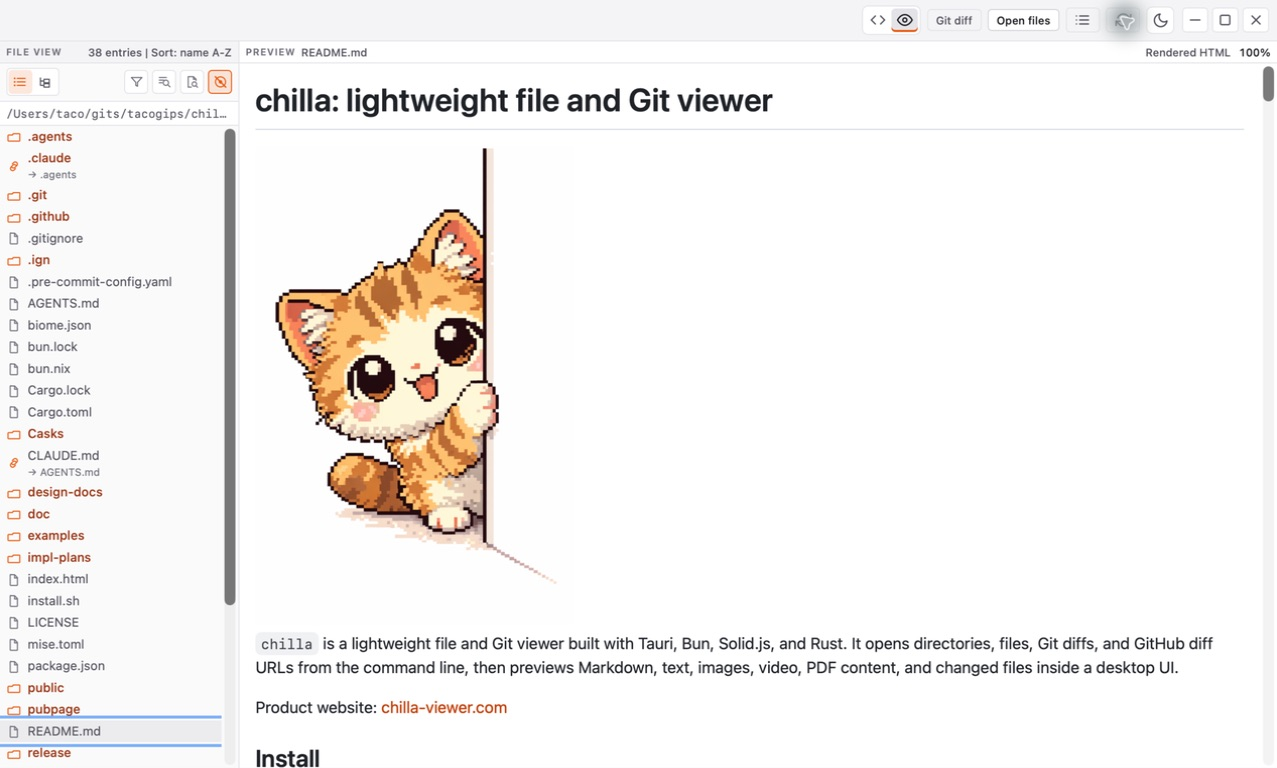
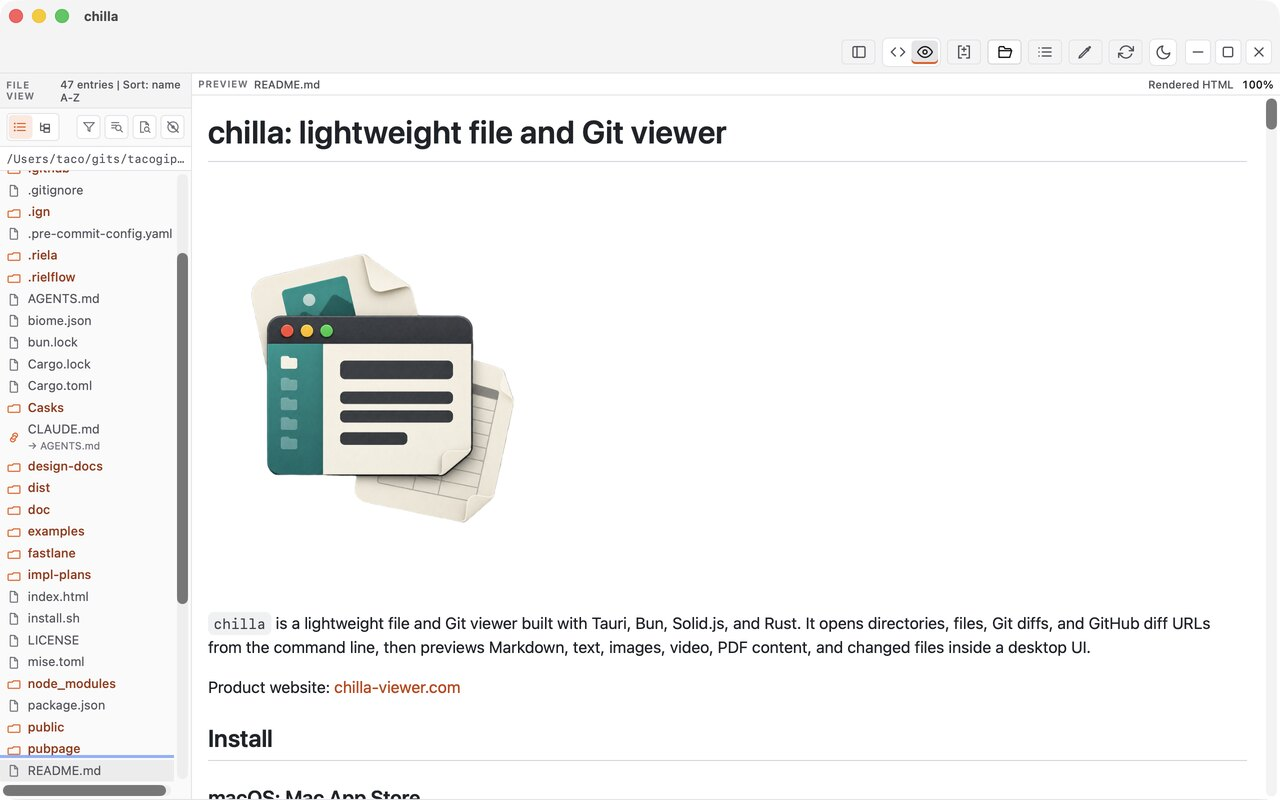
docs(pubpage): add pair view section and recapture README screenshot with new branding
Adds an English/Japanese pair view (before/after) section with a fresh capture, replaces the browse screenshot that still showed the cat illustration, extends build validation to the new assets, and records capture provenance.

diff --git a/pubpage/ja/index.html b/pubpage/ja/index.html
@@ -18,6 +18,7 @@
 <a href="#features">chillaとは</a>
 <a href="#keyboard">キーボード</a>
 <a href="#git-diff">Git diff</a>
+<a href="#pair-view">並べて比較</a>
 <a href="#install">インストール</a>
 <a href="https://github.com/tacogips/chilla">GitHub ↗</a><a class="language-link" href="/" lang="en">English</a></nav>
 </header>
@@ -55,7 +56,7 @@ brew upgrade --cask chilla</code></pre></details>
 </div></section>
 <div class="section product-preview">
 <figure class="app-shot hero-shot" id="proof"><div class="shot-heading"><span>いつものファイルを、いつものリズムで。</span><span class="shot-tag">chilla / README.md</span></div>
-<picture><source type="image/webp" srcset="/screenshots/browse-fresh.webp" /><img src="/screenshots/browse-fresh.jpg" width="1277" height="768" alt="ファイルブラウザとネコのイラスト付きREADMEを並べたchillaの画面" loading="lazy" /></picture><figcaption>撮り直した実際のアプリ画面 · リポジトリを移動しながらREADMEをプレビュー。</figcaption></figure>
+<picture><source type="image/webp" srcset="/screenshots/browse-fresh.webp" /><img src="/screenshots/browse-fresh.jpg" width="1280" height="800" alt="ファイルブラウザとドキュメントビューアのイラスト付きREADMEを並べたchillaの画面" loading="lazy" /></picture><figcaption>撮り直した実際のアプリ画面 · リポジトリを移動しながらREADMEをプレビュー。</figcaption></figure>
 </div>
 <section class="section features" id="features" aria-labelledby="features-title">
 <div class="section-intro"><div><p class="eyebrow">手間を減らして、すいすいと。</p><h2 id="features-title">ちょっと見たい。<br />だから、軽やかに。</h2></div><p>ターミナルのファイルブラウザのような操作感に、見たいものが見やすいデスクトップの画面を。chillaはYaziに着想を得たアプリで、Yaziのフォークではありません。</p></div>
@@ -78,6 +79,10 @@ brew upgrade --cask chilla</code></pre></details>
 <div class="section-intro"><div><p class="eyebrow">Git diffも、おまかせ。</p><h2 id="diff-title">小さな変更も、<br />くっきりと。</h2></div><div><p>ローカルの変更、コミット、範囲指定、GitHubのプルリクエストURLに対応。変更ファイルをたどりながら、何が変わったかを確認できます。ここでも操作はキーボード中心。</p><ul class="mode-pills"><li>左右比較</li><li>スタック表示</li><li>ファイル全体</li></ul></div></div>
 <figure class="app-shot diff-shot"><picture><source type="image/webp" srcset="/screenshots/diff-fresh.webp" /><img src="/screenshots/diff-fresh.jpg" width="1277" height="768" loading="lazy" alt="変更ファイルの一覧と赤と緑の差分を左右に表示したchillaのGit diff画面" /></picture><figcaption>撮り直した実際のアプリ画面 · リポジトリの変更を左右に並べて比較。</figcaption></figure>
 <p class="diff-shortcuts">diffモードでは： <kbd>Tab</kbd> 表示を循環 <kbd>1</kbd> 左右比較 <kbd>2</kbd> スタック <kbd>3</kbd> ファイル全体 <kbd>4</kbd> SVG画像</p></section>
+<section class="section diff-section" id="pair-view" aria-labelledby="pair-title">
+<div class="section-intro"><div><p class="eyebrow">BEFORE / AFTER</p><h2 id="pair-title">2つのファイルを、<br />左右に並べて。</h2></div><div><p>ファイルを2つ渡すと、chillaは左右に並べて開きます。画像のbefore/after確認にぴったりです。各ペインは同じリッチなプレビューを使い、左上の目のアイコンでペインを隠すと、もう一方がウィンドウ全体に広がります。</p><ul class="mode-pills"><li>chilla before.png after.png</li><li>どちらのペインも隠せる</li><li>画像・Markdown・PDFなど</li></ul></div></div>
+<figure class="app-shot diff-shot"><picture><source type="image/webp" srcset="/screenshots/pair-view.webp" /><img src="/screenshots/pair-view.jpg" width="1280" height="800" loading="lazy" alt="左に旧ネコのイラスト、右に新しいドキュメントビューアのイラストを並べたchillaのペアビュー" /></picture><figcaption>撮り直した実際のアプリ画面 · ペアビューでbefore/afterを左右に比較。</figcaption></figure>
+</section>
 </main>
 <footer class="site-footer"><a class="brand" href="/ja/"><img class="brand-icon" src="/favicon.png" data-app-icon alt="" width="44" height="44" /><span>chilla</span></a><p>好奇心いっぱいの、小さなファイル＆Gitビューア。</p><nav aria-label="フッター"><a href="https://apps.apple.com/jp/app/chilla-viewer/id6810136995">Mac App Store</a><a href="/ja/privacy/">プライバシー</a><a href="https://github.com/tacogips/chilla/releases/latest">リリース</a><a href="https://github.com/tacogips/chilla">GitHub</a><a href="/" lang="en">English</a></nav><p class="copyright">© <span data-year>2026</span> chilla</p></footer>
 <script type="module" src="/src/main.js"></script>

diff --git a/pubpage/index.html b/pubpage/index.html
@@ -18,6 +18,7 @@
 <a href="#features">Why chilla</a>
 <a href="#keyboard">Keyboard</a>
 <a href="#git-diff">Git diff</a>
+<a href="#pair-view">Compare</a>
 <a href="#install">Install</a>
 <a href="https://github.com/tacogips/chilla">GitHub ↗</a><a class="language-link" href="/ja/" lang="ja">日本語</a></nav>
 </header>
@@ -55,7 +56,7 @@ brew upgrade --cask chilla</code></pre></details>
 </div></section>
 <div class="section product-preview">
 <figure class="app-shot hero-shot" id="proof"><div class="shot-heading"><span>Your files. A familiar rhythm.</span><span class="shot-tag">chilla / README.md</span></div>
-<picture><source type="image/webp" srcset="/screenshots/browse-fresh.webp" /><img src="/screenshots/browse-fresh.jpg" width="1277" height="768" alt="Chilla’s file browser beside a rendered README with the cat illustration and preview controls" loading="lazy" /></picture><figcaption>Fresh app capture · Browse a repository and preview its README.</figcaption></figure>
+<picture><source type="image/webp" srcset="/screenshots/browse-fresh.webp" /><img src="/screenshots/browse-fresh.jpg" width="1280" height="800" alt="Chilla’s file browser beside a rendered README with the document viewer illustration and preview controls" loading="lazy" /></picture><figcaption>Fresh app capture · Browse a repository and preview its README.</figcaption></figure>
 </div>
 <section class="section features" id="features" aria-labelledby="features-title">
 <div class="section-intro"><div><p class="eyebrow">LESS FUSS. MORE FLOW.</p><h2 id="features-title">A quick look should<br />stay a quick look.</h2></div><p>Keep the speed and familiar keys of a terminal file browser, with a desktop view for the things you actually want to see. Chilla is Yazi-inspired, not a Yazi fork.</p></div>
@@ -78,6 +79,10 @@ brew upgrade --cask chilla</code></pre></details>
 <div class="section-intro"><div><p class="eyebrow">YES, IT DOES GIT DIFFS</p><h2 id="diff-title">Small details.<br />Clearly different.</h2></div><div><p>Review local changes, commits, and ranges, or open a GitHub pull request URL. Browse changed files and see exactly what moved—with the same keyboard-first flow.</p><ul class="mode-pills"><li>Split comparison</li><li>Stacked diff</li><li>Full-file context</li></ul></div></div>
 <figure class="app-shot diff-shot"><picture><source type="image/webp" srcset="/screenshots/diff-fresh.webp" /><img src="/screenshots/diff-fresh.jpg" width="1277" height="768" loading="lazy" alt="Chilla showing a real Git diff with a changed-file sidebar and red and green split comparison" /></picture><figcaption>Fresh app capture · A real repository change in Chilla’s split diff view.</figcaption></figure>
 <p class="diff-shortcuts">In diff mode: <kbd>Tab</kbd> cycle <kbd>1</kbd> split <kbd>2</kbd> stack <kbd>3</kbd> full file <kbd>4</kbd> SVG image</p></section>
+<section class="section diff-section" id="pair-view" aria-labelledby="pair-title">
+<div class="section-intro"><div><p class="eyebrow">BEFORE / AFTER</p><h2 id="pair-title">Two files.<br />Side by side.</h2></div><div><p>Pass two files and chilla opens them next to each other—ideal for checking a before/after image. Each pane uses the same rich previews, and an eye icon at its top-left hides it so the other fills the window.</p><ul class="mode-pills"><li>chilla before.png after.png</li><li>Hide either pane</li><li>Images, Markdown, PDF and more</li></ul></div></div>
+<figure class="app-shot diff-shot"><picture><source type="image/webp" srcset="/screenshots/pair-view.webp" /><img src="/screenshots/pair-view.jpg" width="1280" height="800" loading="lazy" alt="Chilla pair view showing the old cat artwork on the left and the new document viewer artwork on the right" /></picture><figcaption>Fresh app capture · Before and after, side by side in pair view.</figcaption></figure>
+</section>
 </main>
 <footer class="site-footer"><a class="brand" href="/"><img class="brand-icon" src="/favicon.png" data-app-icon alt="" width="44" height="44" /><span>chilla</span></a><p>A curious little file & Git viewer.</p><nav aria-label="Footer"><a href="https://apps.apple.com/app/chilla-viewer/id6810136995">Mac App Store</a><a href="/privacy/">Privacy</a><a href="https://github.com/tacogips/chilla/releases/latest">Releases</a><a href="https://github.com/tacogips/chilla">GitHub</a><a href="/ja/" lang="ja">日本語</a></nav><p class="copyright">© <span data-year>2026</span> chilla</p></footer>
 <script type="module" src="/src/main.js"></script>

diff --git a/pubpage/README.md b/pubpage/README.md
@@ -41,6 +41,13 @@ recorded in `../doc/branding/`. `public/viewer.webp` derives from
 `chilla-icon.png`. English and Japanese hero imagery and metadata use the new
 identity. Historical screenshots below are retained without retouching.
 
+November 15 captures were taken from the 0.4.0 debug build window (1280x800 points, flattened onto white):
+
+| Asset | Capture/source | Dimensions | SHA-256 |
+| --- | --- | --- | --- |
[2 lines of base64/hex data omitted]
+
 ### September 9 design and capture history
 
 The September page used a warm cream/sage/peach palette, rounded headings, the
@@ -55,7 +62,7 @@ No application source was changed or rebuilt for this website task.
 
 | Historical asset | Capture/source | Dimensions | SHA-256 |
 | --- | --- | --- | --- |
[5 lines of base64/hex data omitted]
